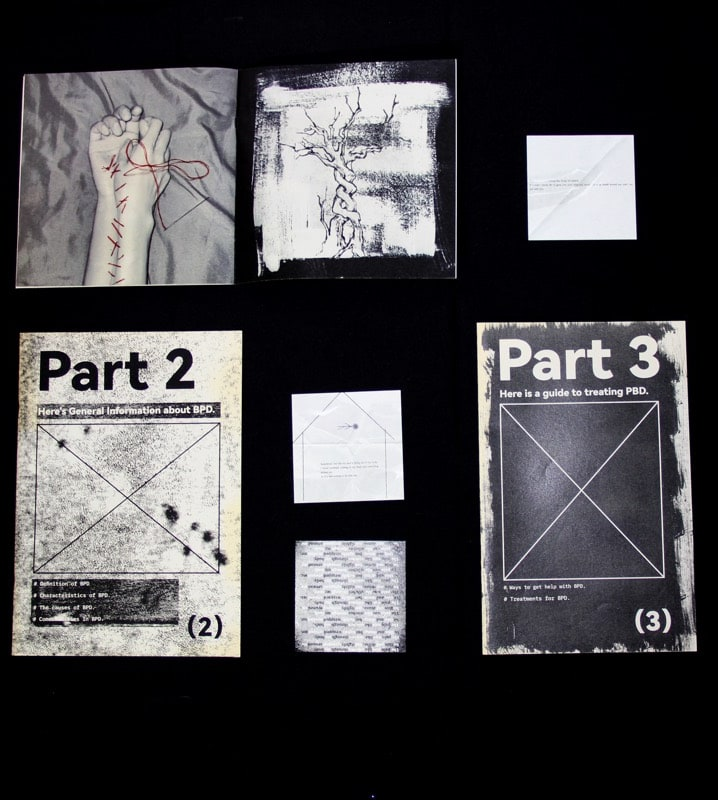
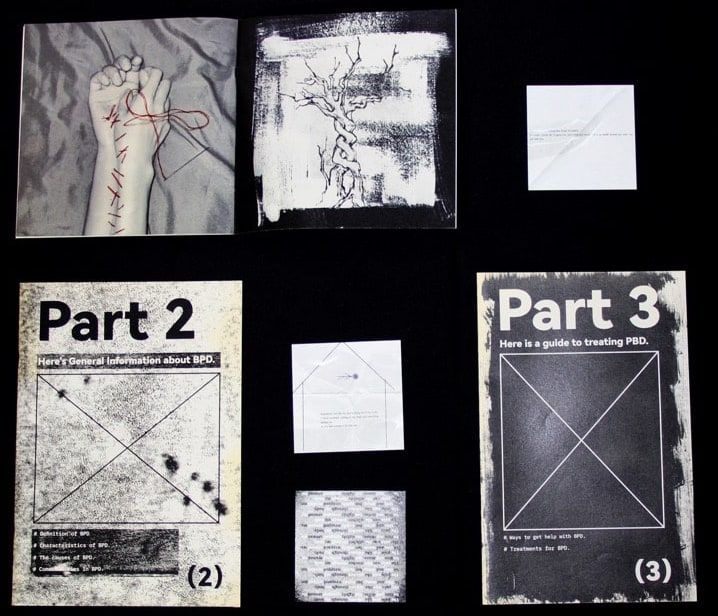
Match the book plate to the photograph, within two per cent
Measured against the larger reference, every piece now sits within 0.02
of its place in the photograph on both axes, and the composite comes out
at 1.13 against the photograph's 1.12.

Two things were wrong before. The reference numbers came off the small
copy and were simply inaccurate — the arrangement is 1.12 wide to tall,
not the 1.21 I read; 03 is wider and further left, 04 narrower, 06
further left. Re-measured, data-plot becomes 1/1-7 1/7-13+3 2/6-10-3
2/1-7+1 3/7-12-14.

And 01 was still carrying 195 pixels of empty black, 58 above the
artwork and 137 below, a quarter of its height. Yesterday's crop missed
it: the bounding-box probe ran at luminance 4, where a handful of
isolated noise pixels near the bottom edge read as content and held the
frame open. Scanning by row instead — a row counts only if three pixels
clear the threshold — puts the artwork at y 58 to 657 exactly. Cropped
there, 01 goes from 0.90 wide-to-tall to 1.17 against the reference's
1.13, and its height stops being the one measurement that would not come
down.

diff --git a/src/content/projects/love-borderline/index.md b/src/content/projects/love-borderline/index.md
@@ -225,7 +225,7 @@ Saddle-stitched, on vintage special paper, for the archival feel.
      06 收在右下。负的偏移是用来把行往上提、让它们真的叠在一起的，
      叠起来谁压谁看这里的先后 —— 写在后面的盖在上面。
      02（竖着摞的三册）这一版不用，节奏够满了。 -->
-<div class="plot" data-plot="1/1-6  1/8-13  2/6-11-5  2/1-7-3  3/8-13-15">
+<div class="plot" data-plot="1/1-7  1/7-13+3  2/6-10-3  2/1-7+1  3/7-12-14">
 
 ![D — STRUCTURE OF THE BOOK 01](./d-structure-of-the-book-01.jpg)
 
